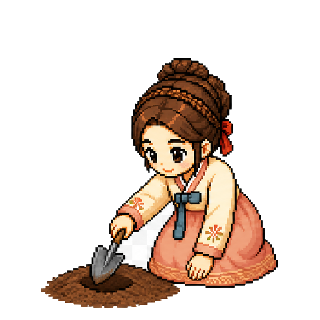
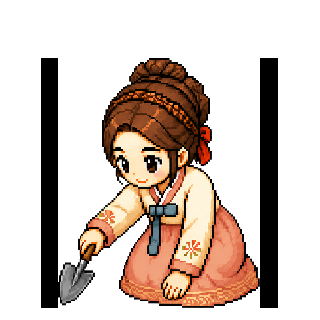
art: clean farmwork Seonhwa transparent sprites

diff --git a/src/index.html b/src/index.html
@@ -4,10 +4,10 @@
   <meta charset="utf-8">
   <meta name="viewport" content="width=device-width,initial-scale=1,viewport-fit=cover">
   <title>선화공주 만들기 — 자산 로딩 테스트</title>
-  <link rel="stylesheet" href="style.css?v=0.64.131-debug">
-  <link rel="stylesheet" href="schedule.css?v=0.64.131-debug">
+  <link rel="stylesheet" href="style.css?v=0.64.132-debug">
+  <link rel="stylesheet" href="schedule.css?v=0.64.132-debug">
   <link rel="stylesheet" href="schedule-pm2.css?v=0.64.18-debug">
-  <link rel="stylesheet" href="birthday.css?v=0.64.131-debug">
+  <link rel="stylesheet" href="birthday.css?v=0.64.132-debug">
   <link rel="stylesheet" href="prologue.css?v=0.64.18-debug">
   <link rel="stylesheet" href="rain-v2.css">
   <link rel="stylesheet" href="naming.css?v=0.64.18-debug">
@@ -48,7 +48,7 @@
       </div>
       <span class="loading-caption">이야기를 열 준비가 되었어요</span>
       <button class="studio-start-sound" id="studioStartSound" type="button">인연의 문을 열기</button>
-      <small class="loading-version" aria-label="현재 게임 버전">v0.64.131-debug</small>
+      <small class="loading-version" aria-label="현재 게임 버전">v0.64.132-debug</small>
     </section>
     <section class="prologue" id="prologue" aria-label="이야기 시작 영상" hidden>
       <audio id="prologueMusic" src="../assets/audio/music/prologue-lantern-and-dawn.mp3" preload="auto" loop></audio>
@@ -248,6 +248,6 @@
       </div>
     </section>
   </main>
-  <script src="schedule-layer-manifests.js?v=0.64.131-debug"></script><script src="story-data.js?v=0.64.18-debug"></script><script src="app.js?v=0.64.131-debug"></script>
+  <script src="schedule-layer-manifests.js?v=0.64.132-debug"></script><script src="story-data.js?v=0.64.18-debug"></script><script src="app.js?v=0.64.132-debug"></script>
 </body>
 </html>

diff --git a/src/app.js b/src/app.js
@@ -243,7 +243,7 @@ const vacationIllustrations=[
 function unifiedAgeFolder(){return '09';}
 function scheduleFramePath(file){return `../assets/characters/seonhwa/schedule-actions/${file}`;}
 function scheduleBasePath(file){return `../assets/characters/seonhwa/schedule-base/${file}`;}
-const scheduleAssetRevision='0.64.131-debug';
+const scheduleAssetRevision='0.64.132-debug';
 const scheduleQaParams=new URLSearchParams(location.search);
 const moonlightStandaloneQa=scheduleQaParams.get('qaHoliday')==='chuseok';
 const sehwaStandaloneQa=scheduleQaParams.get('qaHoliday')==='seollal';

diff --git a/CHANGELOG.md b/CHANGELOG.md
@@ -1,3 +1,9 @@
+## v0.64.132-debug · 농가 선화 스프라이트 외곽 정돈 · 2026-08-27
+
+- 농가 일손돕기 선화 3프레임에 합성돼 있던 갈색 흙 바닥을 제거하고 실제 알파 투명 PNG로 교체했습니다.
+- 선화·삽·모종의 실루엣을 보존하면서 300×300 캔버스와 기존 프레임별 위치를 유지했습니다.
+- 일정 캐릭터·레이어 PNG 501개를 검사해 런타임 프레임의 알파 채널 존재 여부를 확인했습니다.
+
 ## v0.64.131-debug · 인연 남녀 화면상 키 통일 · 2026-08-27
 
 - 원본 전신 비율이 다른 선화와 남자 인연의 개별 배율을 조정해 화면상 머리 위치와 허벅지 프레이밍을 맞췄습니다.
